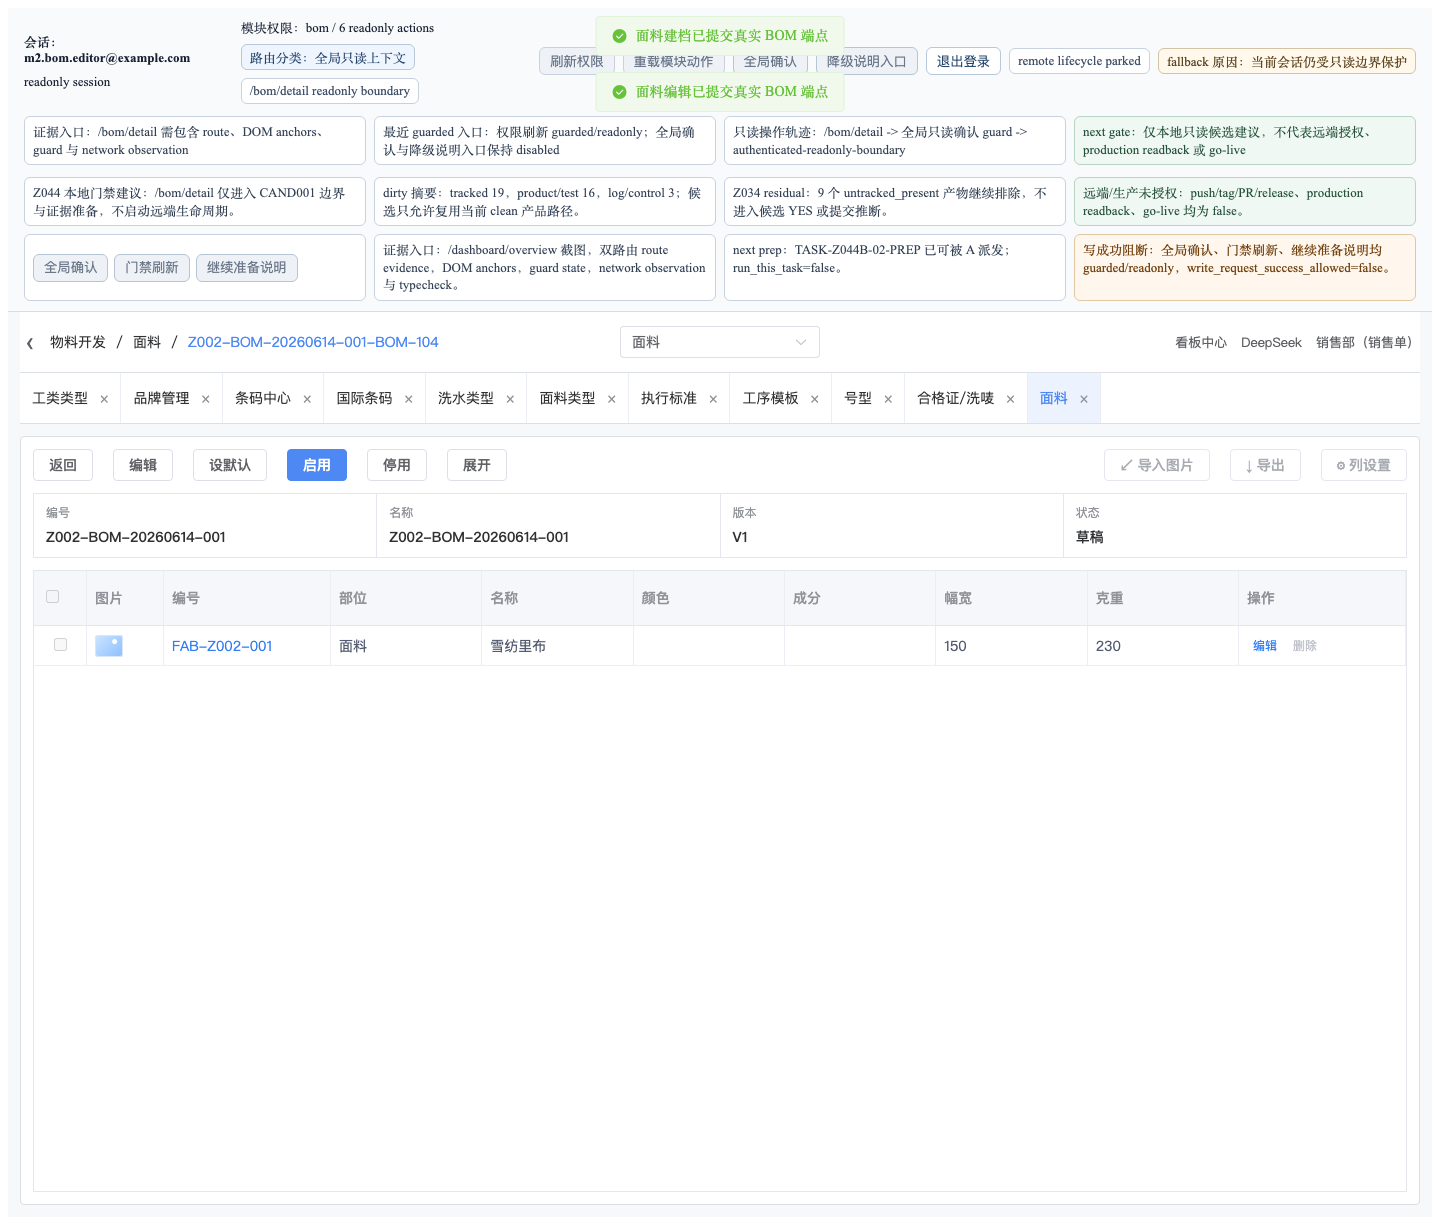
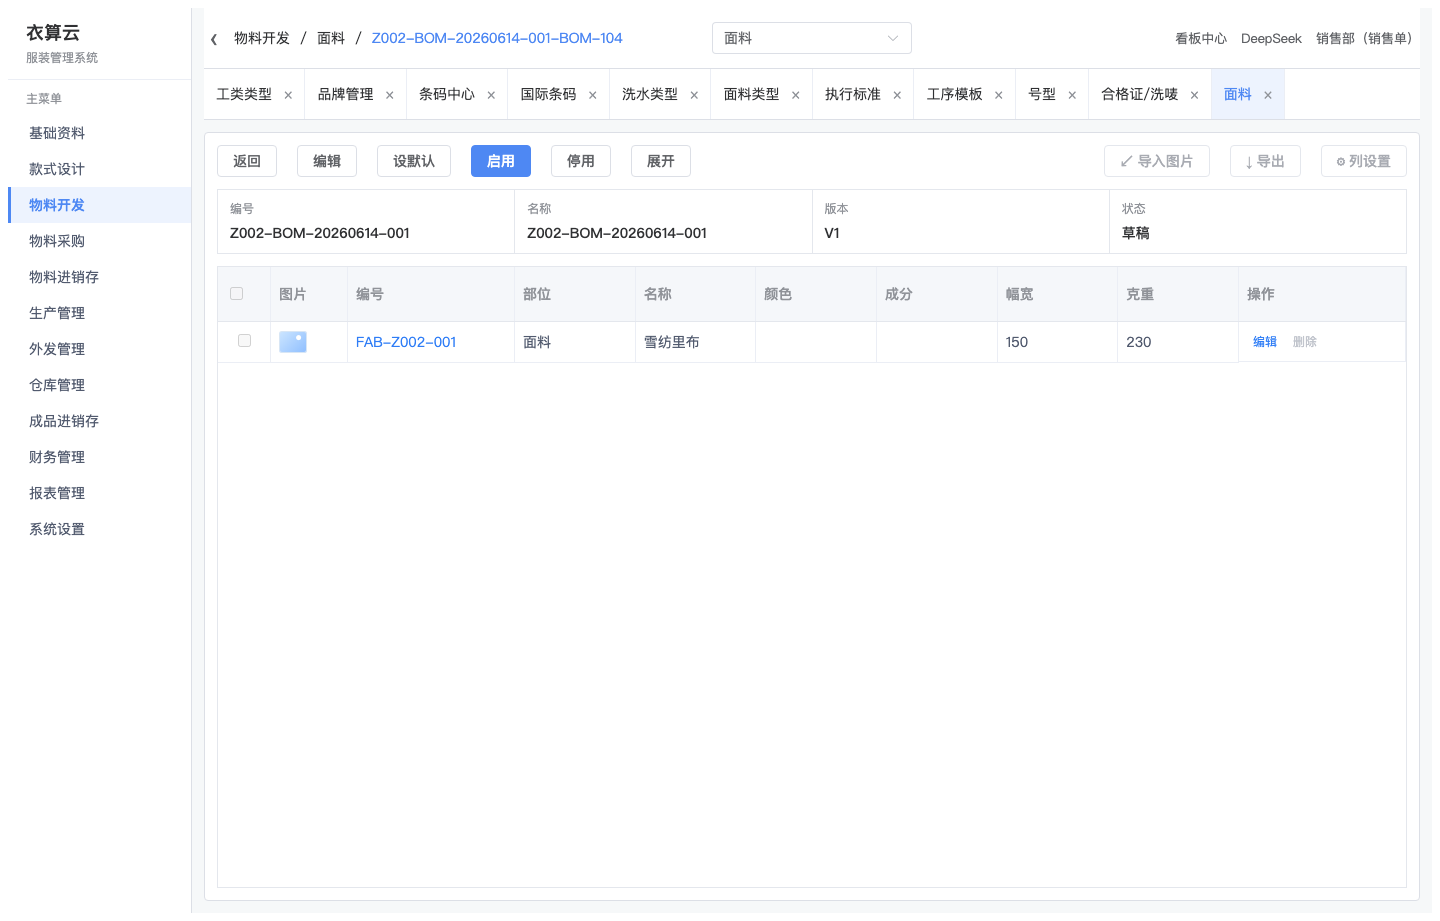
fix: clean BOM 1to1 readonly diagnostics

diff --git a/06_前端/lingyi-pc/src/App.vue b/06_前端/lingyi-pc/src/App.vue
@@ -1,6 +1,6 @@
 <template>
   <section
-    v-if="!isLoginRoute"
+    v-if="showReadonlyDiagnostics"
     id="global-readonly-shell"
     class="global-readonly-shell"
     data-testid="global-readonly-shell"
@@ -300,7 +300,32 @@
       </span>
     </div>
   </section>
-  <router-view />
+  <div v-if="isBomRoute" class="yisuan-business-shell" data-testid="m2-yisuan-app-shell">
+    <aside class="yisuan-business-sidebar" data-testid="m2-yisuan-left-menu">
+      <div class="yisuan-business-brand">
+        <strong>衣算云</strong>
+        <span>服装管理系统</span>
+      </div>
+      <section v-for="group in yisuanShellMenuGroups" :key="group.title" class="yisuan-business-menu-group">
+        <h2>{{ group.title }}</h2>
+        <button
+          v-for="item in group.items"
+          :key="item.name"
+          type="button"
+          class="yisuan-business-menu-item"
+          :class="{ 'is-active': isYisuanShellItemActive(item), 'is-disabled': item.disabled }"
+          :disabled="item.disabled"
+          @click="navigateYisuanShell(item)"
+        >
+          {{ item.name }}
+        </button>
+      </section>
+    </aside>
+    <main class="yisuan-business-main" data-testid="m2-yisuan-business-main">
+      <router-view />
+    </main>
+  </div>
+  <router-view v-else />
 </template>
 
 <script setup lang="ts">
@@ -315,6 +340,51 @@ const route = useRoute()
 const router = useRouter()
 
 const isLoginRoute = computed(() => route.path === '/login')
+const isBomRoute = computed(() => route.path.startsWith('/bom'))
+const readonlyDiagnosticsEnabled =
+  import.meta.env.DEV && import.meta.env.VITE_LINGYI_READONLY_DIAGNOSTICS === 'true'
+const showReadonlyDiagnostics = computed(() => !isLoginRoute.value && readonlyDiagnosticsEnabled)
+
+type YisuanShellMenuItem = {
+  name: string
+  path: string
+  disabled?: boolean
+}
+
+type YisuanShellMenuGroup = {
+  title: string
+  items: YisuanShellMenuItem[]
+}
+
+const yisuanShellMenuGroups: YisuanShellMenuGroup[] = [
+  {
+    title: '主菜单',
+    items: [
+      { name: '基础资料', path: '/sales-inventory/references' },
+      { name: '款式设计', path: '/style-profit' },
+      { name: '物料开发', path: '/bom/list' },
+      { name: '物料采购', path: '/subcontract/list?parity=material-purchase' },
+      { name: '物料进销存', path: '/sales-inventory/stock-ledger' },
+      { name: '生产管理', path: '/workshop/tickets' },
+      { name: '外发管理', path: '/subcontract/list' },
+      { name: '仓库管理', path: '/warehouse' },
+      { name: '成品进销存', path: '/sales-inventory/sales-orders' },
+      { name: '财务管理', path: '/factory-statement/list' },
+      { name: '报表管理', path: '/reports' },
+      { name: '系统设置', path: '/system/management' },
+    ],
+  },
+]
+
+const isYisuanShellItemActive = (item: YisuanShellMenuItem): boolean => {
+  if (item.name === '物料开发') return isBomRoute.value
+  return route.path === item.path || (item.path !== '/' && route.path.startsWith(item.path))
+}
+
+const navigateYisuanShell = (item: YisuanShellMenuItem): void => {
+  if (item.disabled || isYisuanShellItemActive(item)) return
+  void router.push(item.path)
+}
 
 const routeModule = computed(() => {
   if (typeof route.meta?.module === 'string' && route.meta.module.trim()) return route.meta.module
@@ -450,7 +520,7 @@ const handleReadonlyShellActionGuard = (event: Event): void => {
 }
 
 const loadReadonlyState = async (): Promise<void> => {
-  if (isLoginRoute.value) {
+  if (isLoginRoute.value || !showReadonlyDiagnostics.value) {
     return
   }
   try {
@@ -471,7 +541,7 @@ const refreshReadonlySession = async (): Promise<void> => {
 }
 
 const reloadReadonlyModuleActions = async (): Promise<void> => {
-  if (isLoginRoute.value) {
+  if (isLoginRoute.value || !showReadonlyDiagnostics.value) {
     return
   }
   try {
@@ -499,6 +569,96 @@ watch(
 </script>
 
 <style scoped>
+.yisuan-business-shell {
+  display: grid;
+  grid-template-columns: 184px minmax(0, 1fr);
+  min-height: 100vh;
+  background: #f6f8f9;
+  color: #303133;
+  font-family: "PingFang SC", Arial, "Microsoft YaHei", sans-serif;
+}
+
+.yisuan-business-sidebar {
+  min-height: 100vh;
+  padding: 12px 0;
+  border-right: 1px solid #dcdfe6;
+  background: #ffffff;
+  box-sizing: border-box;
+}
+
+.yisuan-business-brand {
+  display: grid;
+  gap: 3px;
+  padding: 0 18px 12px;
+  border-bottom: 1px solid #ebeef5;
+}
+
+.yisuan-business-brand strong {
+  color: #303133;
+  font-size: 18px;
+  font-weight: 600;
+  line-height: 26px;
+}
+
+.yisuan-business-brand span {
+  color: #909399;
+  font-size: 12px;
+  line-height: 18px;
+}
+
+.yisuan-business-menu-group {
+  padding: 10px 0 0;
+}
+
+.yisuan-business-menu-group h2 {
+  margin: 0;
+  padding: 0 18px 7px;
+  color: #909399;
+  font-size: 12px;
+  font-weight: 400;
+  line-height: 18px;
+}
+
+.yisuan-business-menu-item {
+  display: block;
+  width: 100%;
+  min-height: 36px;
+  padding: 0 18px;
+  border: 0;
+  border-left: 3px solid transparent;
+  background: transparent;
+  color: #515a6e;
+  font: inherit;
+  font-size: 14px;
+  line-height: 36px;
+  text-align: left;
+  cursor: pointer;
+}
+
+.yisuan-business-menu-item:hover {
+  background: #f5f7fa;
+  color: #4e88f3;
+}
+
+.yisuan-business-menu-item.is-active {
+  border-left-color: #4e88f3;
+  background: rgba(78, 136, 243, 0.1);
+  color: #4e88f3;
+  font-weight: 500;
+}
+
+.yisuan-business-menu-item.is-disabled,
+.yisuan-business-menu-item:disabled {
+  color: #c0c4cc;
+  cursor: not-allowed;
+}
+
+.yisuan-business-main {
+  min-width: 0;
+  min-height: 100vh;
+  background: #f6f8f9;
+}
+
 .global-readonly-shell {
   position: sticky;
   top: 0;
@@ -662,6 +822,16 @@ watch(
 }
 
 @media (max-width: 920px) {
+  .yisuan-business-shell {
+    grid-template-columns: 1fr;
+  }
+
+  .yisuan-business-sidebar {
+    min-height: auto;
+    border-right: 0;
+    border-bottom: 1px solid #dcdfe6;
+  }
+
   .global-readonly-shell {
     grid-template-columns: 1fr;
   }

diff --git a/04_测试与验收/TASK-W003A-M2_BOM衣算云1对1验收报告.md b/04_测试与验收/TASK-W003A-M2_BOM衣算云1对1验收报告.md
@@ -1,6 +1,6 @@
 # TASK-W003A-M2 BOM 衣算云 1:1 验收报告
 
-- 更新时间：2026-06-14 10:42 CST+8
+- 更新时间：2026-06-14 11:09 CST+8
 - 范围：M2-S1 至 M2-S5，BOM 列表/详情读基线、建档/编辑真实写端点、详情生命周期按钮、清 local-dev 沙箱 UI 与死代码、Playwright 闭环截图。
 - 结论：本地实现与自测 gate 通过；等待顾问代码/视觉审查。后端零改，未执行真实 ERPNext 生产写。
 
@@ -11,6 +11,8 @@
 3. 写闭环接真实前端 API：`createBom(POST /api/bom/)`、`updateBomDraft(PUT /api/bom/{id})`。
 4. `BomDetail.vue` 接真实生命周期 API：`setDefaultBom`、`activateBom`、`deactivateBom`、`explodeBom`，按钮按 `button_permissions` fail-closed 显隐/禁用。
 5. 删除 `bom.ts` 的 `LOCAL_*`/`*LocalBom*` 旧沙箱函数；删除 `production.ts` 的两个 `fetchLocalReadback*` 死代码。
+6. 收尾补正：`App.vue` 的 `global-readonly-shell` 已改为仅 `VITE_LINGYI_READONLY_DIAGNOSTICS=true` 且非 production 诊断模式渲染；BOM 1:1 业务页默认不再显示 readonly session/remote lifecycle/fallback 诊断带。
+7. BOM 路由补齐衣算云业务外壳左侧主菜单，列表/详情截图已包含 `基础资料 / 款式设计 / 物料开发 / ...`，并高亮 `物料开发`。
 
 ## 自测结果
 
@@ -18,6 +20,7 @@
 - `npm run test:bom-m2-contracts`：PASS，锁定无 `/api/local-dev/bom`、无旧 LocalBom/rollback/readback 符号、真实 BOM API 与 1:1 关键 token。
 - `node 04_测试与验收/测试证据/W003A_M2_bom_yisuan_1to1/e2e_bom_m2_yisuan_flow.mjs`：PASS。
 - `rg -n "/api/local-dev/bom" src/views`：空。
+- `e2e_bom_m2_yisuan_flow_summary.json`：`diagnostics_hidden=true`、`app_shell_columns="184px 1240px"`、`local_dev_bom_calls=0`。
 
 ## 浏览器证据
 
@@ -32,6 +35,8 @@
 - `local_dev_bom_calls=0`。
 - 1:1 样式 token：页面背景 `rgb(246, 248, 249)`、主色 `rgb(78, 136, 243)`、表头 `rgb(245, 247, 250)`、正文 `rgb(81, 90, 110)`。
 - 关键结构：物料开发/面料顶部、工具栏、`请输入名称/供应商/编号`、表头 `图片/编号/部位/名称/颜色/成分/幅宽/克重/操作`、`30条/页` 均通过。
+- 顶部清场：BOM 列表/详情/五种状态页均断言无 `global-readonly-shell`、无 `readonly session`、无 `remote lifecycle parked`、无 `fallback 原因`/`路由分类`诊断文案。
+- 完整外壳：BOM 列表/详情截图均含左侧主菜单，`物料开发` 高亮。
 
 ## 未释放项
 

diff --git a/00_交接与日志/DAILY_STATUS.md b/00_交接与日志/DAILY_STATUS.md
@@ -1,5 +1,5 @@
 # DAILY_STATUS
-updated_at: 2026-06-14 10:42 CST+8
+updated_at: 2026-06-14 11:09 CST+8
 ## W003A
 - state: `MAINLINE_ACTIVE`
 - task: `TASK-W003A-LAUNCH`
@@ -28,7 +28,9 @@ updated_at: 2026-06-14 10:42 CST+8
 - state_baselines: `01_需求与资料/衣算云文档/证据数据/*ui_state*/screenshots_*/04_物料开发_面料_{loading,error,disabled,empty,no_permission}.png`
 - write_endpoints: `createBom(POST /api/bom/), updateBomDraft(PUT /api/bom/{id}); lifecycle buttons use real BOM endpoints only`
 - forbidden_ui: `no /api/local-dev/bom, no scenario_tag/回滚/回读本地沙箱面板, no non-1:1 temporary BOM UI`
-- closeout_gate: `PASS: npm run verify + BOM M2 contract + Playwright e2e; grep /api/local-dev/bom src/views 为空`
+- readonly_diagnostics_cleanup: `PASS: global-readonly-shell 仅 VITE_LINGYI_READONLY_DIAGNOSTICS=true 且非 production 诊断模式渲染；BOM 1:1 页默认顶部干净`
+- app_shell: `PASS: BOM 列表/详情截图已包含衣算云左侧主菜单（基础资料/款式设计/物料开发/...）`
+- closeout_gate: `PASS: npm run verify + BOM M2 contract + Playwright e2e; grep /api/local-dev/bom src/views 为空；diagnostics_hidden=true`
 - evidence: `04_测试与验收/TASK-W003A-M2_BOM衣算云1对1验收报告.md`
 - screenshots: `04_测试与验收/测试证据/W003A_M2_bom_yisuan_1to1/`
 ## Frozen
